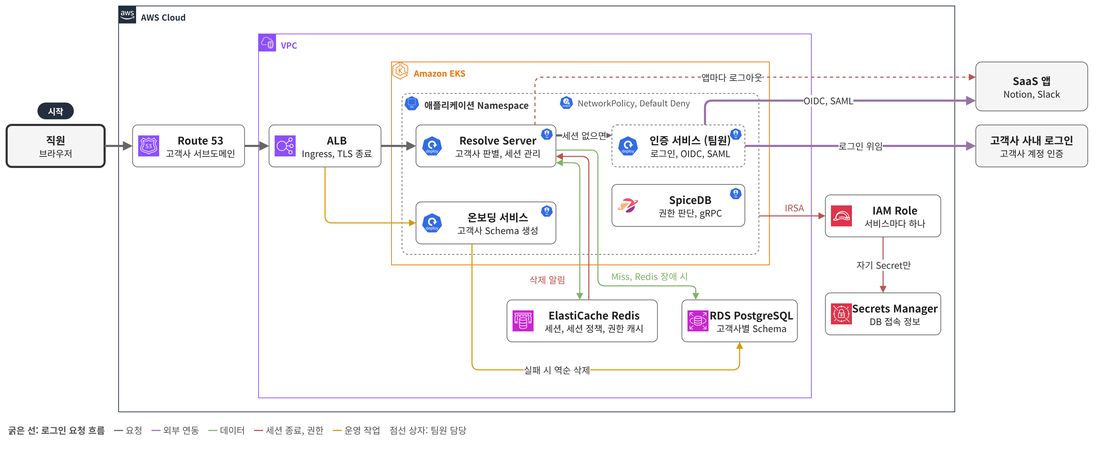
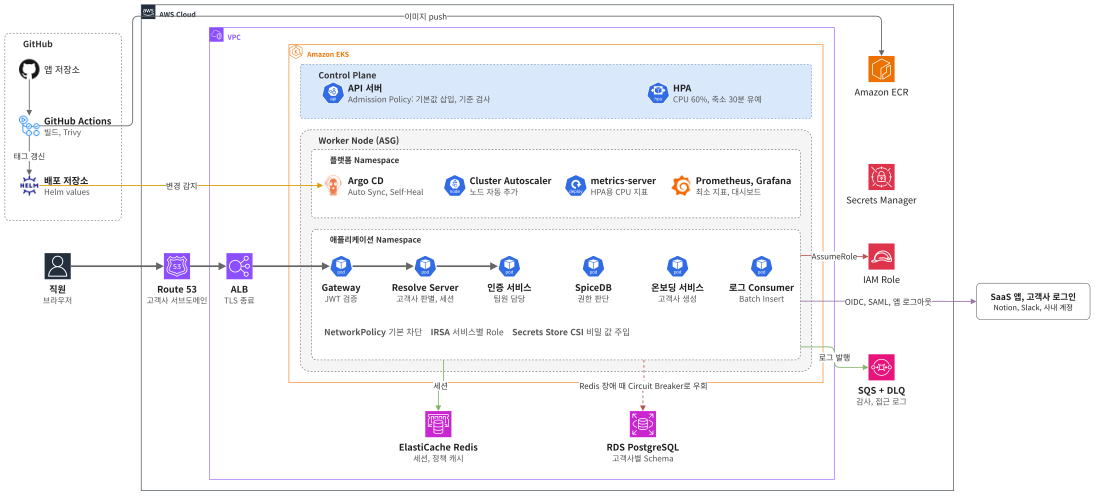
docs: 옥타코 소개와 맡은 일 보강, 아키텍처 그림을 배포와 자동 확장까지 담도록 갱신

diff --git a/projects/octaco.html b/projects/octaco.html
@@ -54,7 +54,7 @@
             <div>
               <ul class="case-meta"><li>실무</li><li>2025.07 – 2025.12</li><li>신규 SSO 구축 TF 백엔드 3명</li></ul>
               <h1 class="case-title">(주)옥타코 멀티테넌트 SSO 인증 서비스</h1>
-              <p class="case-desc">고객사 여러 곳이 함께 쓰는 SSO 인증 서비스입니다. 회사 계정 하나로 Notion과 Slack 같은 업무 앱에 모두 로그인합니다.</p>
+              <p class="case-desc">온프레미스 SSO 시스템을 AWS EKS 기반 멀티테넌트 SaaS로 옮기는 신규 구축 프로젝트입니다. 고객사 여러 곳이 함께 쓰고 직원은 회사 계정 하나로 Notion과 Slack 같은 업무 앱에 모두 로그인합니다. 초기 TF에서 백엔드 개발과 클라우드 인프라 구축에 참여해 고객사 판별과 세션, 접근 제어를 개발하고 배포, 운영 환경을 설계했습니다.</p>
           <p class="ov-h">주요 성과</p>
           <ul class="hl" aria-label="주요 결과">
             <li><a href="#s-onboard"><span class="hl-label">고객사 추가 실패</span><span class="hl-big">자동 복구</span><span class="hl-from">이전 사람이 찾아 삭제</span></a></li>
@@ -66,8 +66,8 @@
                 <p class="role-h">맡은 일</p>
                 <dl>
                   <div><dt>설계</dt><dd><ul class="role-list"><li>서비스 구조</li><li>고객사 데이터 격리 방식</li><li>권한 관리 도메인과 접근 제어</li><li>의사결정 문서로 설계 근거 공유</li></ul></dd></div>
-                  <div><dt>개발</dt><dd><ul class="role-list"><li>고객사 판별과 세션 관리 서버</li><li>업무 앱 로그아웃 전파</li><li>고객사 온보딩 서비스</li><li>사용자 도메인</li><li>권한 검사 어노테이션 라이브러리</li><li>인증 정책 캐시</li><li>감사 로그와 접근 로그 비동기 저장</li></ul></dd></div>
-                  <div><dt>인프라</dt><dd><ul class="role-list"><li>EKS 전환</li><li>GitOps 배포 파이프라인</li><li>EKS 운영과 트러블슈팅</li><li>서비스별 IAM Role 분리</li><li>배포 기준 Admission 정책</li></ul></dd></div>
+                  <div><dt>개발</dt><dd><ul class="role-list"><li>고객사 판별과 세션 관리 서버</li><li>업무 앱 로그아웃 전파</li><li>고객사 온보딩 서비스</li><li>사용자 도메인</li><li>권한 검사 어노테이션 라이브러리</li><li>인증 정책 캐시</li><li>Redis 장애 때 DB 우회</li><li>감사 로그와 접근 로그 비동기 저장</li></ul></dd></div>
+                  <div><dt>인프라</dt><dd><ul class="role-list"><li>EKS 전환</li><li>GitOps 배포 파이프라인</li><li>Pod 재시작 문제 해결</li><li>HPA와 Cluster Autoscaler 자동 확장</li><li>서비스별 IAM Role 분리</li><li>배포 기준 Admission 정책</li></ul></dd></div>
                   <div class="role-tech"><dt>기술</dt><dd><ul class="tags"><li>Java</li><li>Spring Boot</li><li>Spring Security</li><li>Hibernate Multi-Tenancy</li><li>PostgreSQL</li><li>Redis</li><li>SpiceDB</li><li>Resilience4j</li><li>Flyway</li><li>AWS EKS</li><li>Helm</li><li>Argo CD</li><li>IRSA</li><li>Trivy</li></ul></dd></div>
                 </dl>
                 <p class="role-note">로그인 화면과 OIDC/SAML 처리는 팀원 담당</p>
@@ -76,8 +76,8 @@
           </div>
 
           <figure class="diagram arch">
-            <img src="../images/diagrams/sso-arch.png" alt="옥타코 SSO 아키텍처: Route 53과 ALB를 거쳐 EKS의 Resolve Server, 온보딩 서비스, 인증 서비스, SpiceDB로 요청이 들어가고 ElastiCache Redis와 RDS PostgreSQL을 쓰며 서비스마다 IAM Role을 둔다" loading="lazy">
-            <figcaption>옥타코 SSO의 AWS 아키텍처 (업무를 바탕으로 재구성). 점선 상자는 팀원 담당입니다.</figcaption>
+            <img src="../images/diagrams/sso-arch.png" alt="옥타코 SSO 아키텍처: 직원 요청이 Route 53과 ALB를 거쳐 EKS의 Gateway, Resolve Server, 인증 서비스로 이어지고, Control Plane의 Admission Policy와 HPA, 플랫폼 Namespace의 Argo CD, Cluster Autoscaler, metrics-server, Prometheus와 Grafana, 애플리케이션 Namespace의 SpiceDB, 온보딩 서비스, 로그 Consumer, ElastiCache Redis와 장애 때 우회하는 RDS PostgreSQL, 서비스별 IAM Role과 Secrets Manager, SQS, GitHub Actions와 ECR로 이어지는 배포를 한 장에 담은 구성" loading="lazy">
+            <figcaption>옥타코의 요청 경로, 배포, 자동 확장, 데이터 구성 (업무를 바탕으로 재구성). 인증 서비스는 팀원 담당입니다.</figcaption>
           </figure>
 
           <p class="page-sub">항목을 펼치면 찾은 문제와 해결 과정과 결과를 차례로 볼 수 있습니다. 그림은 누르면 크게 보입니다.</p>

diff --git a/index.html b/index.html
@@ -272,7 +272,7 @@
         <div class="pcards" tabindex="0" aria-label="프로젝트 카드, 좌우로 넘겨 보기">
           <a class="pcard" href="projects/octaco.html">
             <div class="pcard-media">
-              <img src="images/diagrams/card-octaco.png" alt="옥타코 SSO 아키텍처 요약 그림" loading="lazy" width="1100">
+              <img src="images/diagrams/card-octaco.png" alt="옥타코 요청 경로, 배포, 자동 확장, 데이터 구성 요약 그림" loading="lazy" width="1100">
               <div class="pcard-hover">
                 <p class="pcard-hk">맡은 일</p>
                 <ul class="pcard-role" aria-label="담당"><li>인증 서버</li><li>고객사 데이터 격리</li><li>접근 제어</li><li>EKS GitOps</li></ul>
